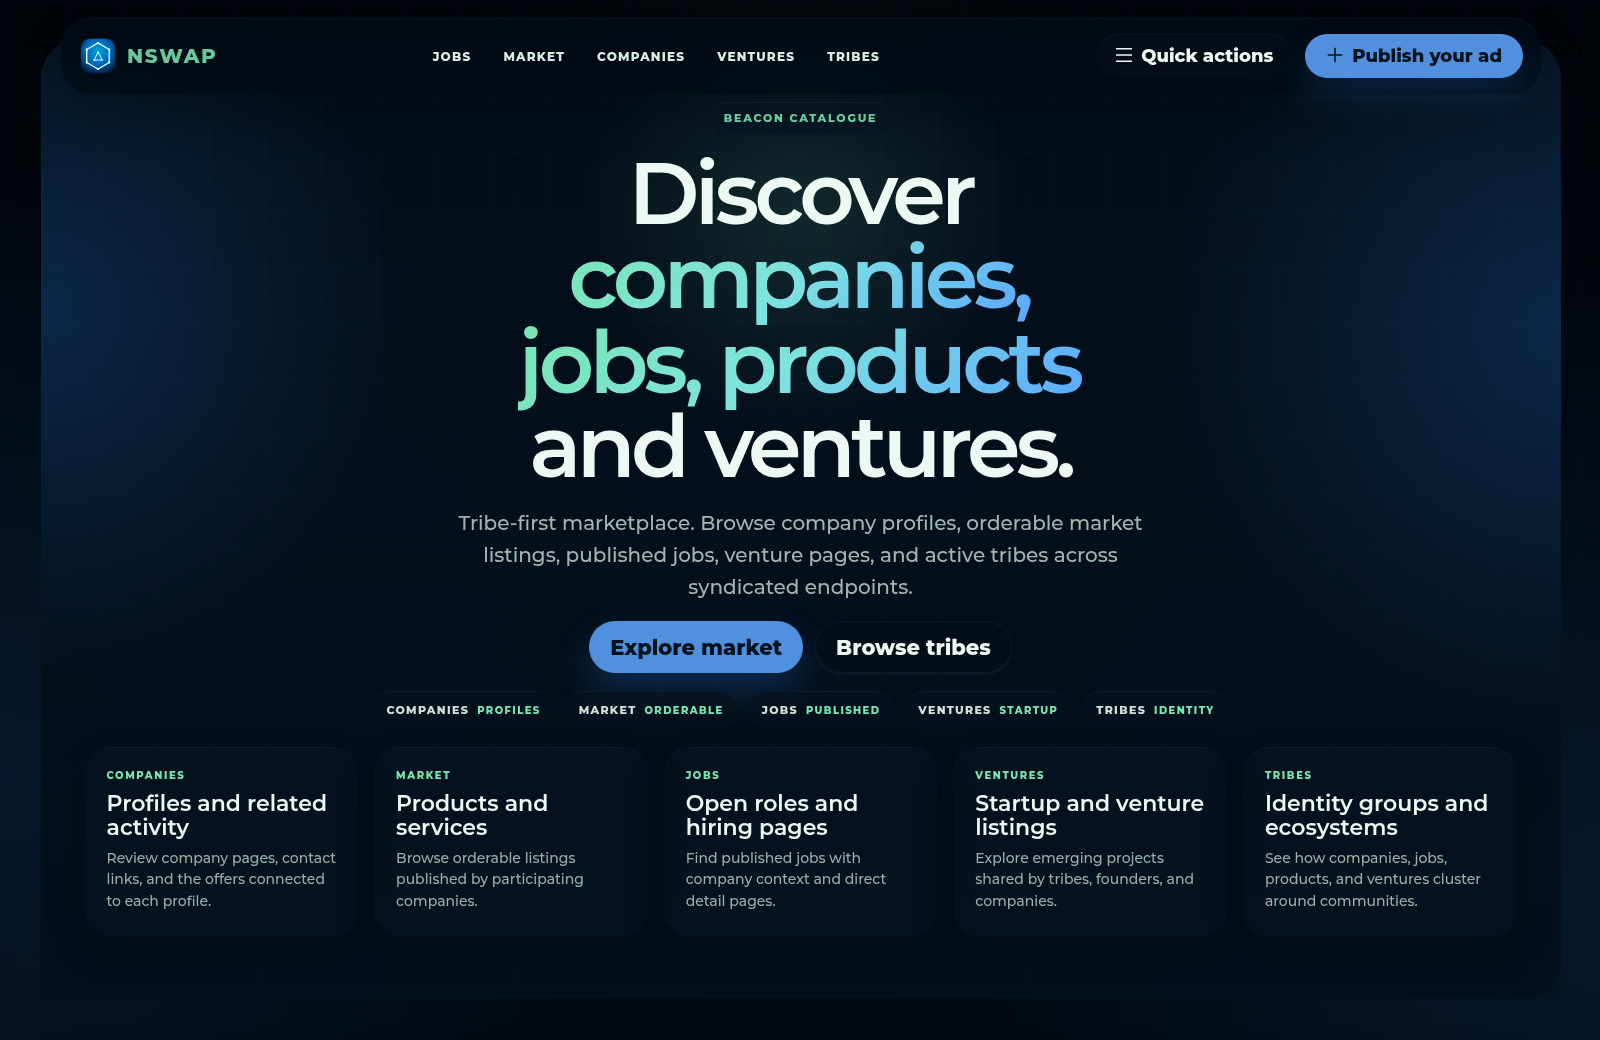
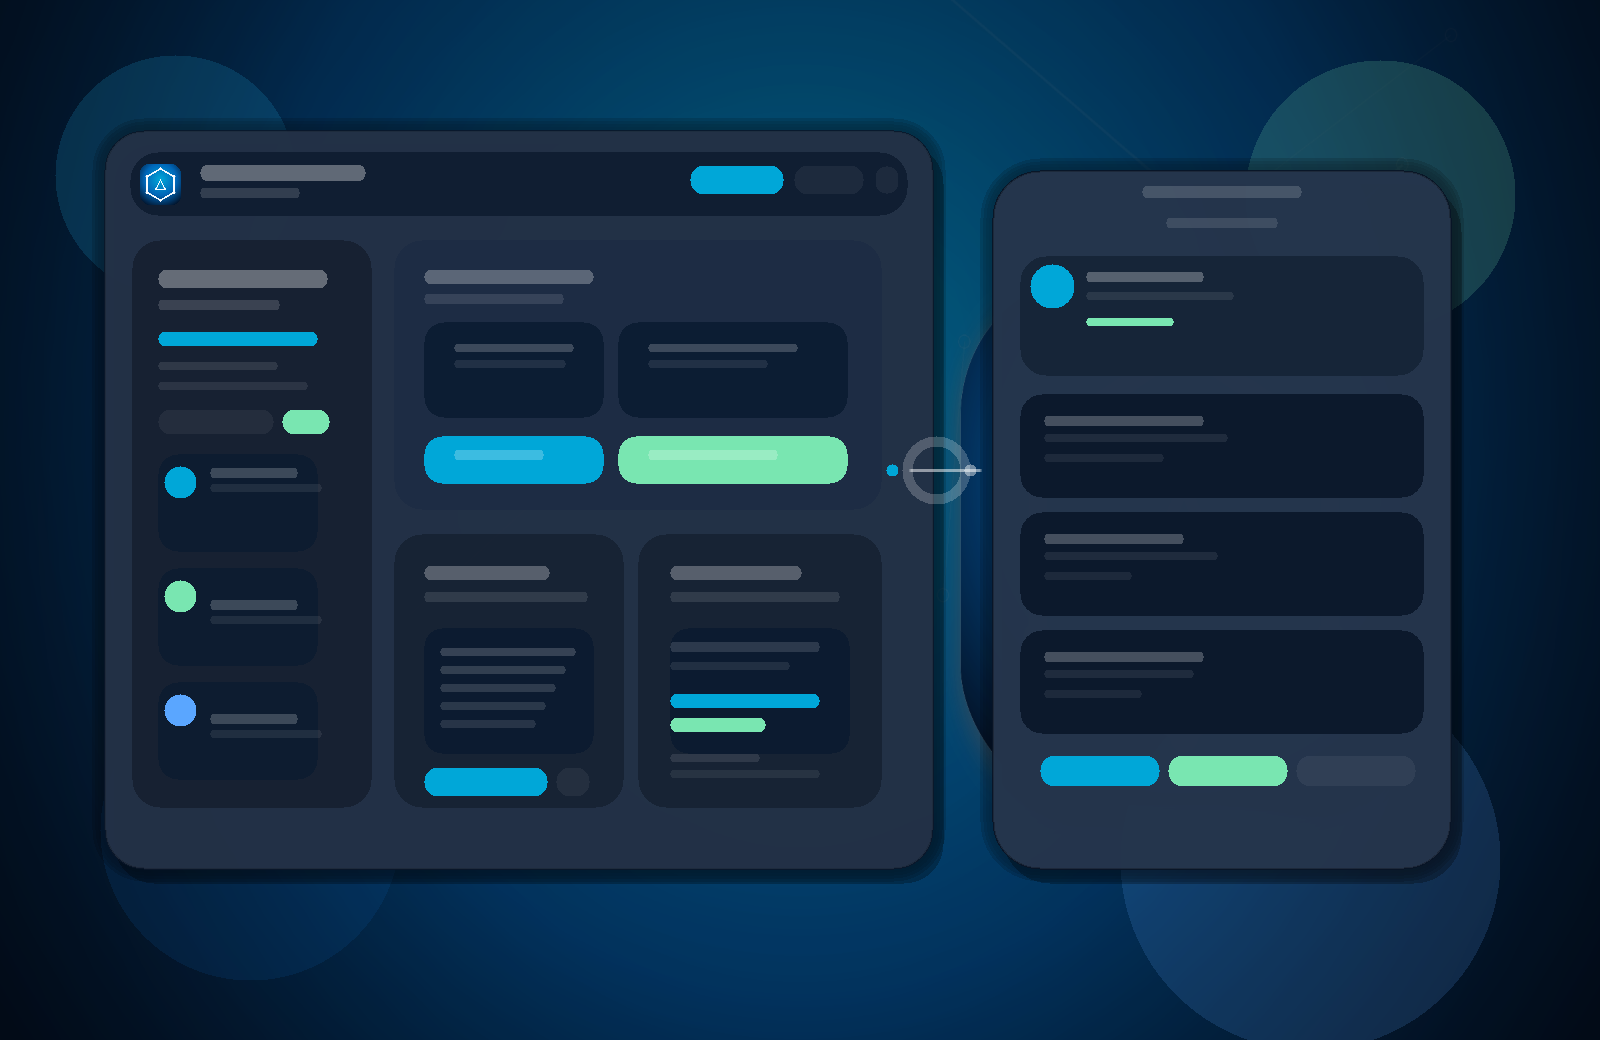
Fix markdown editor styles and preview image

diff --git a/src/styles/_markdown.scss b/src/styles/_markdown.scss
@@ -38,3 +38,130 @@
 .Markdown--clamp3 p + p::before {
     content: " ";
 }
+
+.MarkdownEditor {
+    color-scheme: dark;
+    overflow-x: hidden;
+
+    .w-md-editor {
+        border: 1px solid rgba(90, 166, 255, 0.24);
+        border-radius: 22px;
+        background:
+            radial-gradient(circle at top left, rgba(121, 230, 177, 0.09), transparent 34%),
+            linear-gradient(180deg, rgba(6, 18, 31, 0.96), rgba(3, 12, 20, 0.98));
+        box-shadow:
+            0 22px 60px rgba(0, 0, 0, 0.34),
+            inset 0 1px 0 rgba(147, 214, 255, 0.06);
+        overflow: hidden;
+    }
+
+    .w-md-editor-area {
+        overflow-y: auto;
+        overflow-x: hidden;
+    }
+
+    .w-md-editor-toolbar {
+        background: linear-gradient(180deg, rgba(8, 22, 35, 0.96), rgba(4, 14, 24, 0.98));
+        border-bottom: 1px solid rgba(90, 166, 255, 0.14);
+        padding: 8px 10px;
+    }
+
+    .w-md-editor-toolbar button {
+        color: rgba(238, 248, 243, 0.9);
+    }
+
+    .w-md-editor-toolbar button:hover {
+        color: #eef8f3;
+    }
+
+    .w-md-editor-text {
+        background:
+            radial-gradient(circle at top left, rgba(121, 230, 177, 0.05), transparent 32%),
+            linear-gradient(180deg, rgba(6, 18, 31, 0.94), rgba(3, 12, 20, 0.98));
+    }
+
+    .w-md-editor-text-input,
+    .w-md-editor-text-pre > code {
+        color: #eef8f3 !important;
+        background: transparent !important;
+        caret-color: #79e6b1;
+    }
+
+    .w-md-editor-text-input::placeholder {
+        color: rgba(188, 217, 203, 0.54);
+    }
+
+    .w-md-editor-preview {
+        background:
+            radial-gradient(circle at top right, rgba(90, 166, 255, 0.08), transparent 30%),
+            linear-gradient(180deg, rgba(5, 16, 27, 0.98), rgba(3, 11, 19, 0.98));
+        border-left: 1px solid rgba(90, 166, 255, 0.14);
+        overflow-x: hidden;
+    }
+
+    .w-md-editor-preview .wmde-markdown,
+    .wmde-markdown.wmde-markdown-var {
+        background: transparent;
+        color: #eef8f3;
+    }
+
+    .w-md-editor-preview .wmde-markdown {
+        padding: 18px 20px 20px;
+        line-height: 1.72;
+        font-size: 15px;
+    }
+
+    .w-md-editor-preview .wmde-markdown h1,
+    .w-md-editor-preview .wmde-markdown h2,
+    .w-md-editor-preview .wmde-markdown h3,
+    .w-md-editor-preview .wmde-markdown h4 {
+        color: #ffffff;
+        letter-spacing: -0.02em;
+        margin-top: 0.2em;
+        margin-bottom: 0.5em;
+    }
+
+    .w-md-editor-preview .wmde-markdown p {
+        color: rgba(238, 248, 243, 0.9);
+    }
+
+    .w-md-editor-preview .wmde-markdown blockquote {
+        margin: 14px 0;
+        padding: 14px 16px;
+        border-left: 3px solid rgba(121, 230, 177, 0.56);
+        border-radius: 14px;
+        background: rgba(8, 24, 38, 0.72);
+        color: rgba(238, 248, 243, 0.84);
+    }
+
+    .w-md-editor-preview .wmde-markdown code {
+        background: rgba(90, 166, 255, 0.14);
+        color: #d8f3ff;
+        border-radius: 8px;
+        padding: 0.16em 0.42em;
+    }
+
+    .w-md-editor-preview .wmde-markdown pre {
+        margin: 16px 0;
+        padding: 16px 18px;
+        border-radius: 18px;
+        background: rgba(4, 13, 22, 0.94);
+        border: 1px solid rgba(90, 166, 255, 0.12);
+        overflow: auto;
+    }
+
+    .w-md-editor-preview .wmde-markdown a {
+        color: #79e6b1;
+        text-decoration-thickness: 2px;
+        text-underline-offset: 2px;
+    }
+
+    .w-md-editor-preview .wmde-markdown ul,
+    .w-md-editor-preview .wmde-markdown ol {
+        padding-left: 1.35em;
+    }
+
+    .w-md-editor-preview .wmde-markdown li + li {
+        margin-top: 0.35em;
+    }
+}

diff --git a/cypress/component/MarkdownEditor.cy.tsx b/cypress/component/MarkdownEditor.cy.tsx
@@ -1,0 +1,66 @@
+import * as React from "react";
+
+import { mount } from "cypress/react";
+
+import { MarkdownEditor } from "../../src/components/publish/MarkdownEditor";
+
+import { screenshotStep } from "../support/component-tests/utils";
+
+const sampleMarkdown = `# Harbor Preview
+
+This editor should feel like part of the dark app.
+
+- clean textarea styling
+- softer preview surfaces
+- stronger contrast for readability
+
+> The preview should feel intentional, not default.
+
+Here is \`inline code\` and a [link](https://example.com).
+
+\`\`\`ts
+const message = "hello";
+\`\`\`
+`;
+
+const MarkdownEditorHarness: React.FunctionComponent = () => {
+    return <MarkdownEditor rows={12} value={sampleMarkdown} />;
+};
+
+const hidePageScrollbars = () => {
+    cy.document().then((doc) => {
+        doc.documentElement.style.overflow = "hidden";
+        doc.body.style.overflow = "hidden";
+    });
+};
+
+describe("markdown editor", () => {
+    const openPreviewMode = () => {
+        cy.get(".w-md-editor-toolbar [aria-label^='Preview code']", { timeout: 20000 }).click({ force: true });
+        cy.get(".w-md-editor-preview", { timeout: 20000 }).should("be.visible");
+    };
+
+    it("renders the editor on desktop", () => {
+        cy.viewport(1440, 1200);
+        hidePageScrollbars();
+        mount(<MarkdownEditorHarness />);
+        cy.get(".MarkdownEditor", { timeout: 20000 }).should("be.visible");
+        cy.get(".w-md-editor").should("be.visible");
+        cy.get(".w-md-editor-text-input").should("be.visible");
+        screenshotStep("markdown-editor-desktop-edit", "viewport");
+        openPreviewMode();
+        screenshotStep("markdown-editor-desktop-preview", "viewport");
+    });
+
+    it("renders the editor on mobile", () => {
+        cy.viewport(390, 844);
+        hidePageScrollbars();
+        mount(<MarkdownEditorHarness />);
+        cy.get(".MarkdownEditor", { timeout: 20000 }).should("be.visible");
+        cy.get(".w-md-editor").should("be.visible");
+        cy.get(".w-md-editor-text-input").should("be.visible");
+        screenshotStep("markdown-editor-mobile-edit", "viewport");
+        openPreviewMode();
+        screenshotStep("markdown-editor-mobile-preview", "viewport");
+    });
+});

diff --git a/src/components/publish/MarkdownEditor.tsx b/src/components/publish/MarkdownEditor.tsx
@@ -12,7 +12,7 @@ export const MarkdownEditor: React.FunctionComponent<MarkdownEditorProps> = (pro
     const value = props.value === undefined ? "" : props.value;
     const rows = props.rows === undefined ? 6 : props.rows;
     return (
-        <div data-color-mode="auto">
+        <div className="MarkdownEditor" data-color-mode="dark">
             <MDEditor
                 value={value}
                 onChange={(val) => props.onChange?.(val ?? "")}
